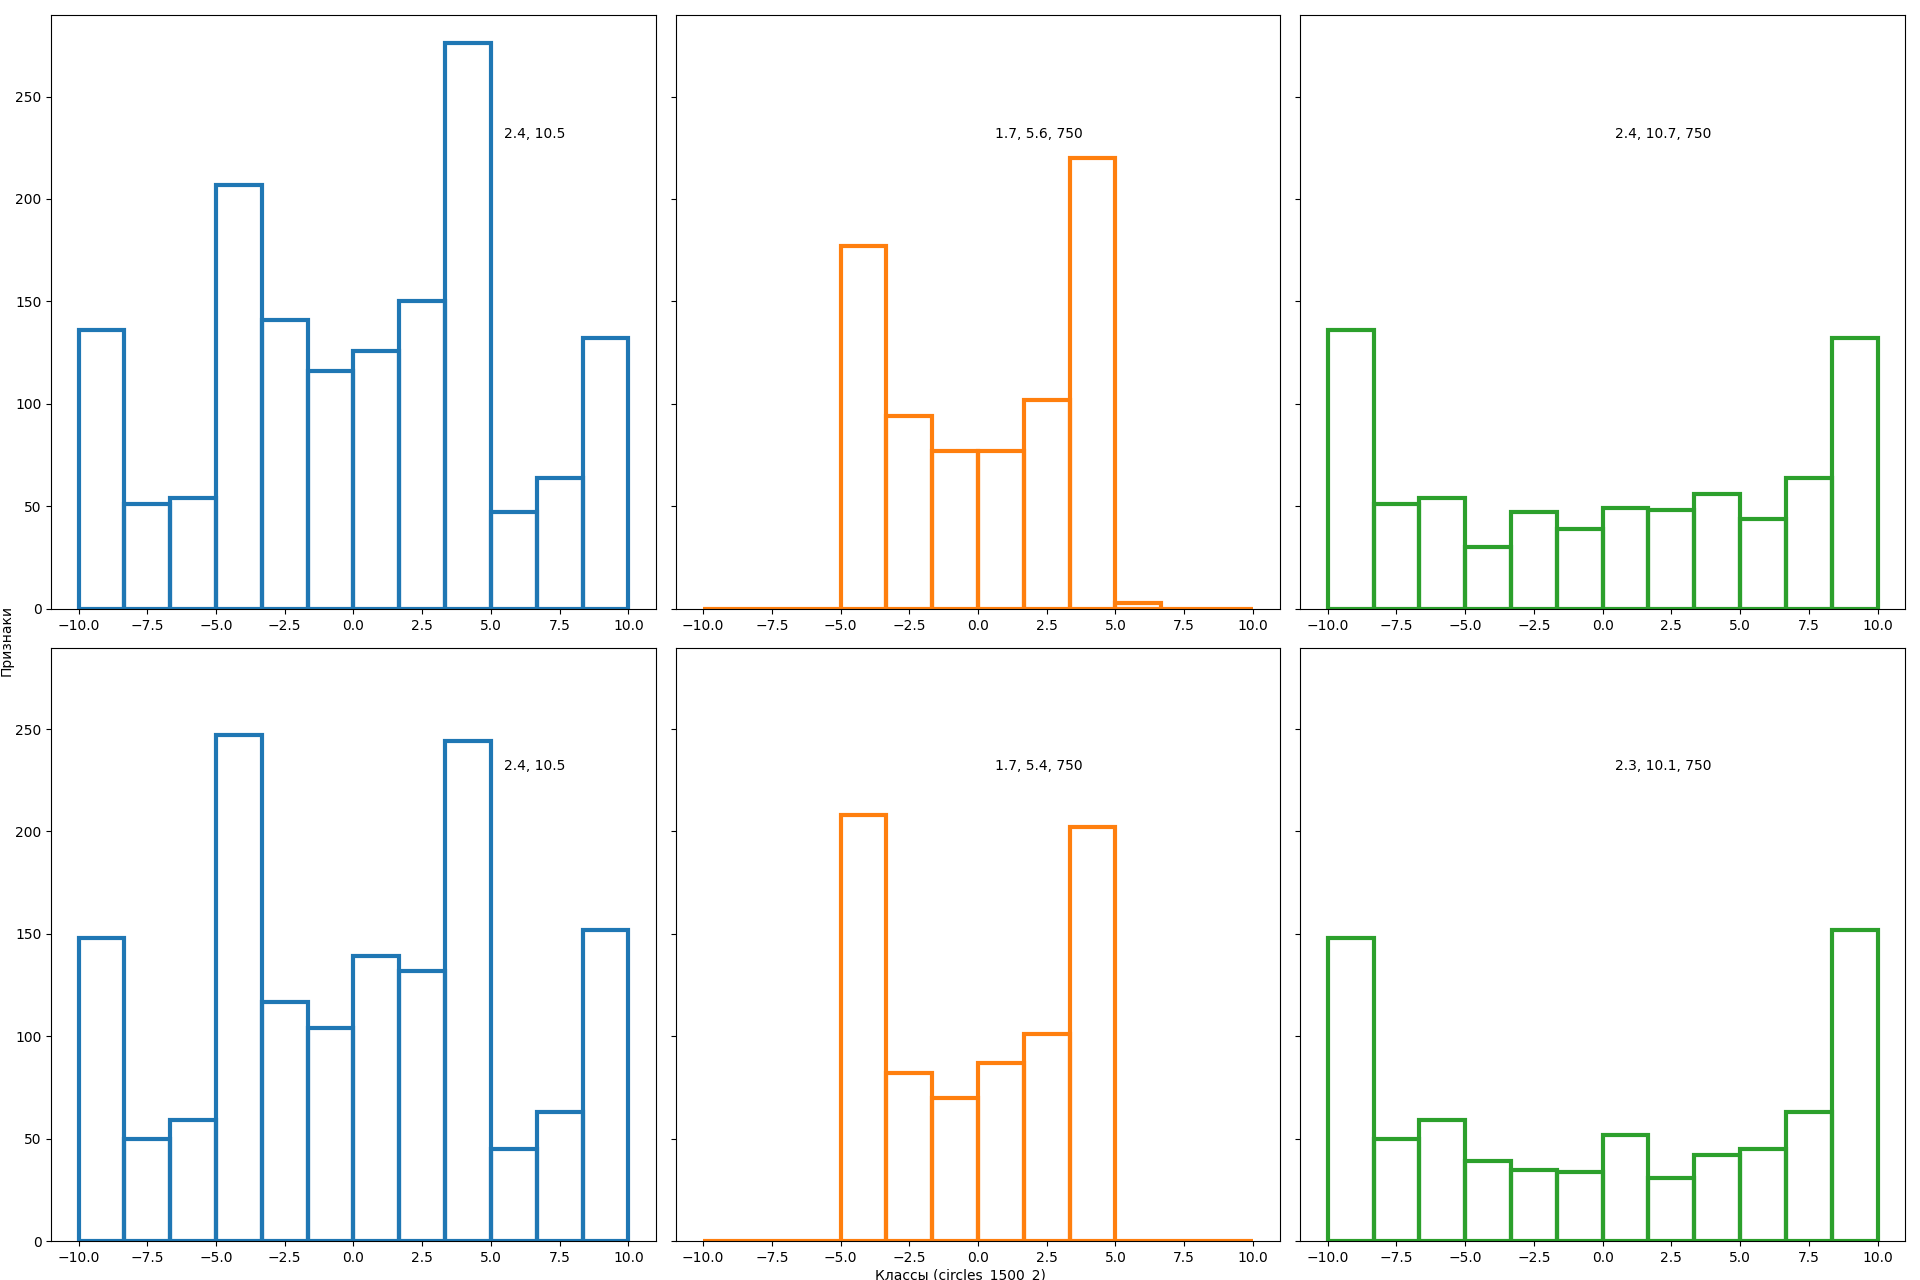
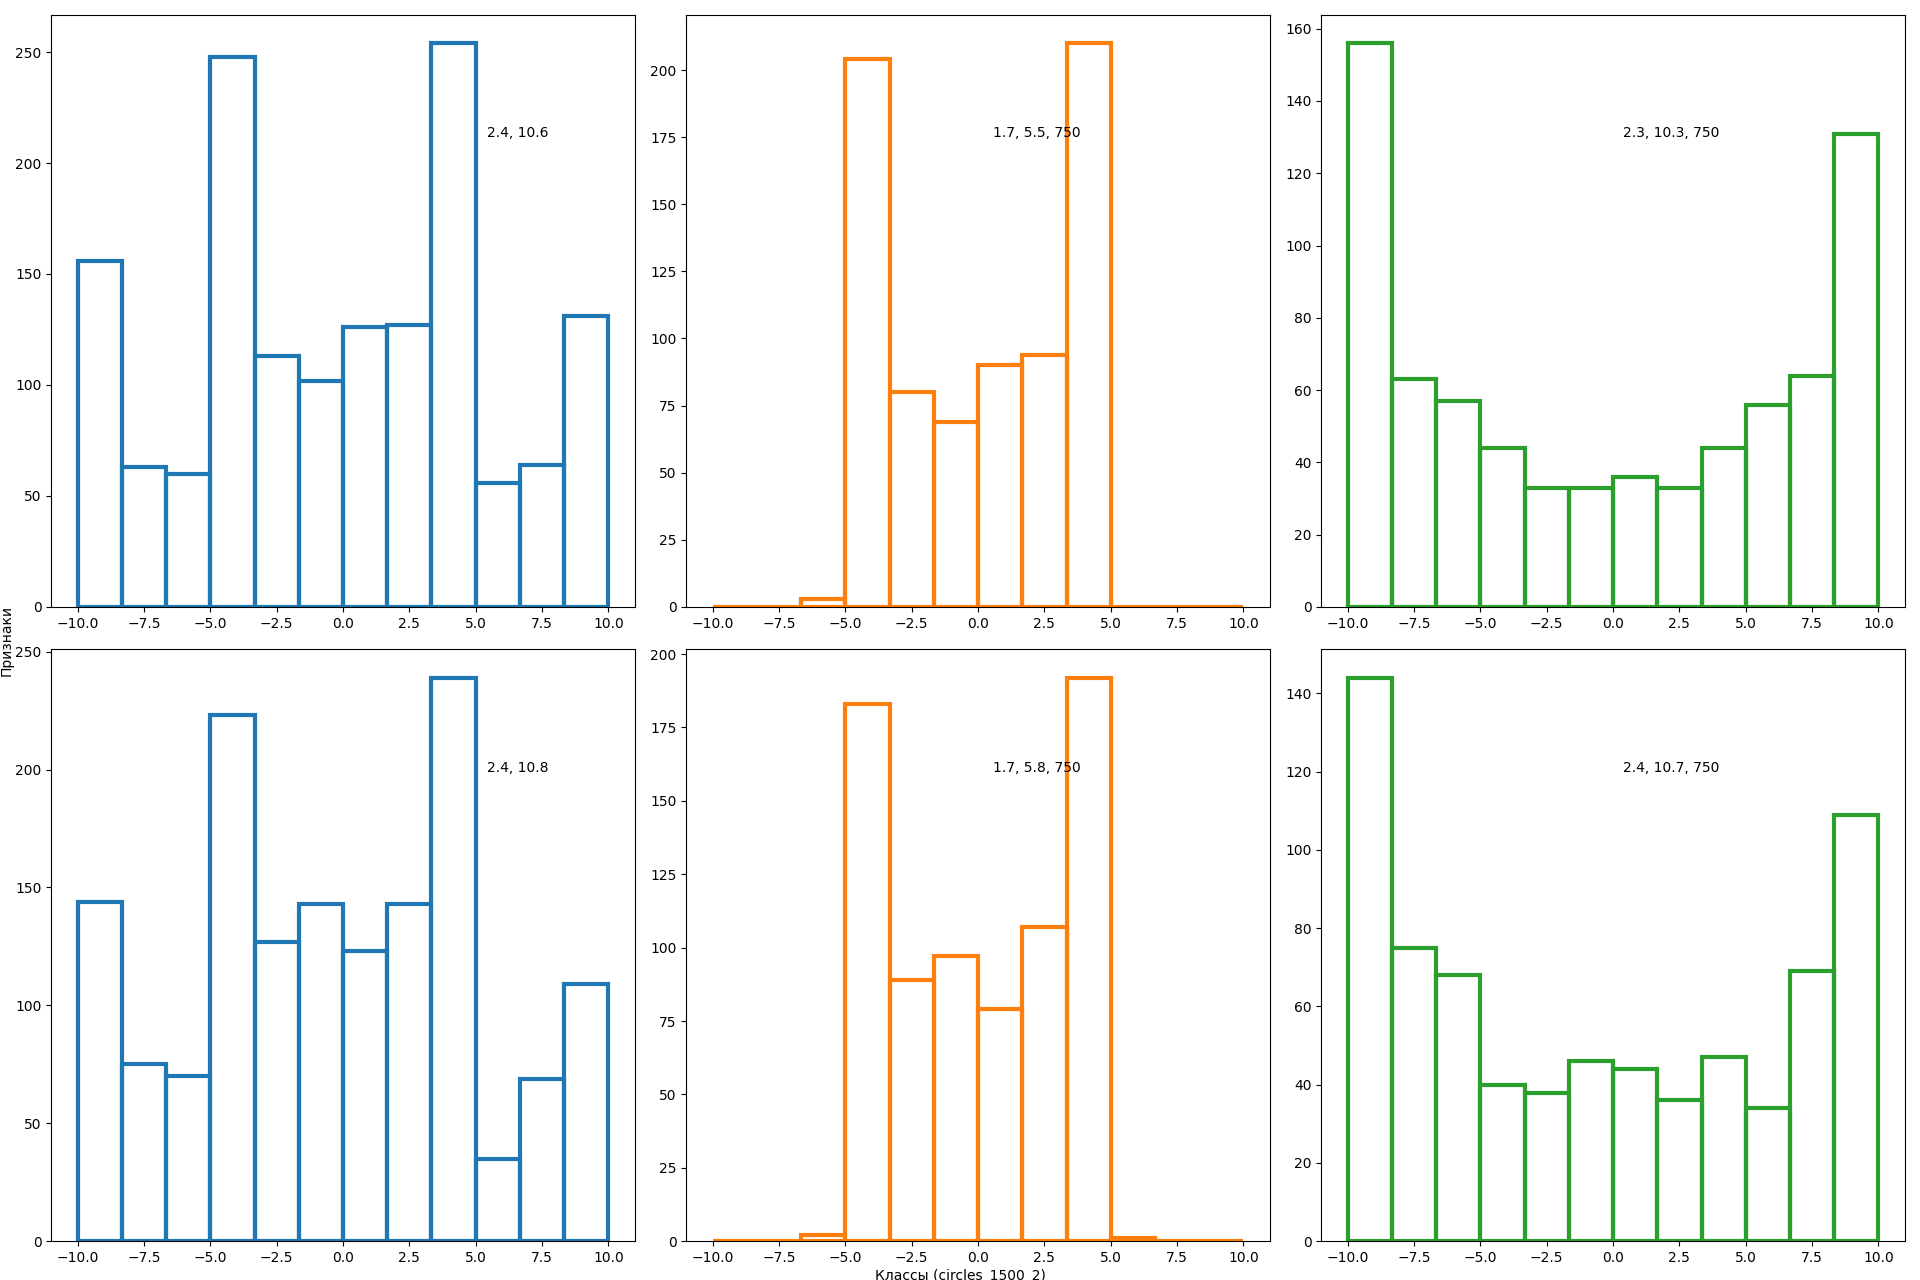
added entropy calculation

diff --git a/calcEntropy.py b/calcEntropy.py
@@ -18,7 +18,7 @@ def calcAndVisualize(dataSet, cl, binsPerFeature, taskName):
 
     plt.figure()
     px = 1 / plt.rcParams['figure.dpi']
-    fig, ax = plt.subplots(nFeatures, nClasses + 1, sharey=True, tight_layout=True, figsize=(1920 * px, 1280 * px))
+    fig, ax = plt.subplots(nFeatures, nClasses + 1, tight_layout=True, figsize=(1920 * px, 1280 * px))
 
     for iFeature in np.arange(nFeatures):
         h = np.histogram(dataSet[:, iFeature], bins=binsPerFeature[iFeature], density=False)
